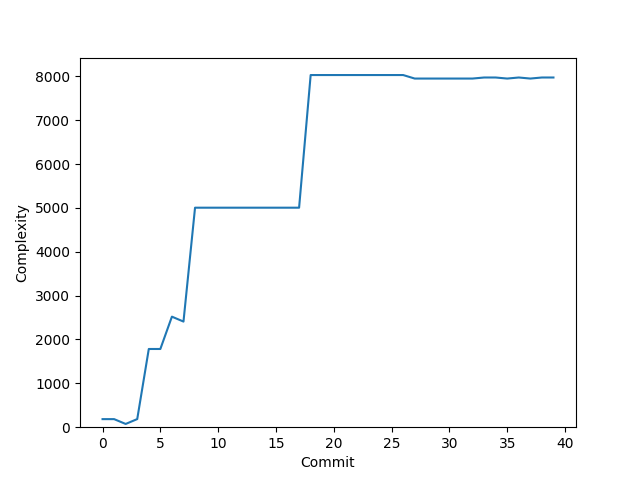
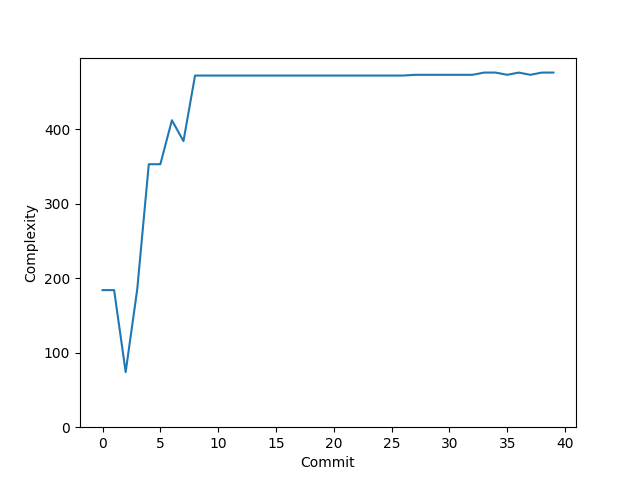
Fixed code complexity results

diff --git a/worker/worker.py b/worker/worker.py
@@ -22,15 +22,14 @@ def calculate_obj_complexity(filetext):
         return 0.0
 
 # Needs fixing
-def calculate_cyclomatic_complexity(repo, directory, complexity_result):
+def extract_python_files(repo, directory):
     python_files = []
     for file in directory:
         if file.type == 'tree':
-            complexity_result += calculate_cyclomatic_complexity(repo, repo[file.id], complexity_result)
+            python_files += extract_python_files(repo, repo[file.id])
         elif file.name.endswith('.py'):
             python_files.append(file)
-            complexity_result += calculate_obj_complexity(repo[file.id].data)
-    return complexity_result
+    return python_files
 
 def clone_git_repository():
     try:
@@ -73,8 +72,14 @@ def main():
             time.sleep(30)
             continue
         commit_obj = repo.get(commit)
-        total_complexity = calculate_cyclomatic_complexity(repo, commit_obj.tree, 0.0)
-        send_cc_result(total_complexity, index)
+        python_files = extract_python_files(repo, commit_obj.tree)
+
+        complexity_result = 0
+
+        for file in python_files:
+            complexity_result += calculate_obj_complexity(repo[file.id].data)
+
+        send_cc_result(complexity_result, index)
 
 if __name__ == '__main__':
     main()
